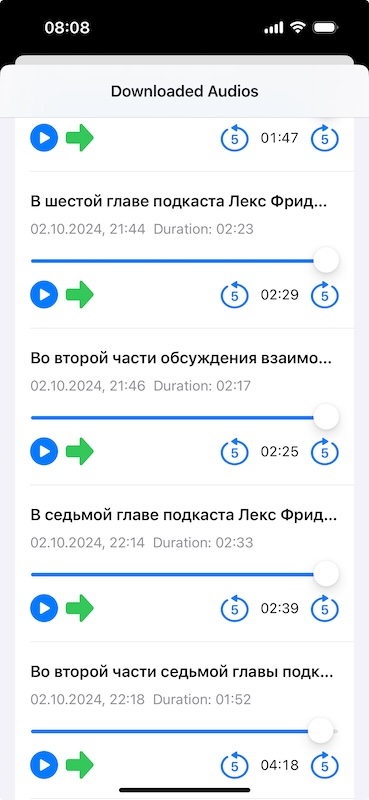
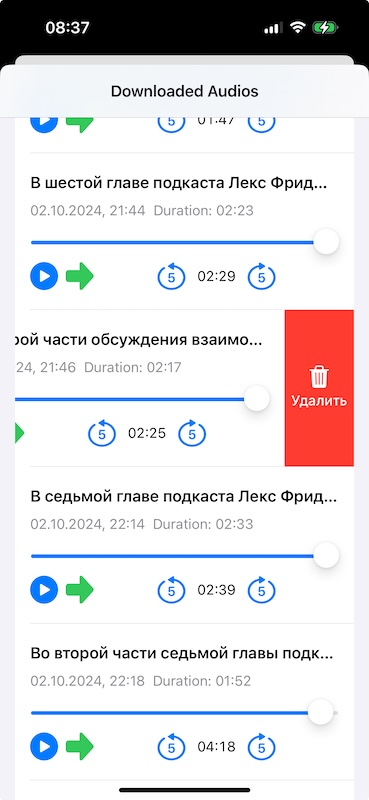
Removes .gitignore from build files and renames ControlButtons file
- Removed `.gitignore` file from the resources section in `AudioFetchGPT.xcodeproj/project.pbxproj`.
- Added an exception for `.cursorrules` file in the "AudioFetchGPT" target.
- Renamed `ControlButtons.swift` to `ControlButtons_AudioRowView.swift` for better code structure clarity.
- Added an additional `Spacer()` in `ControlButtons_AudioRowView.swift` to improve the layout of control buttons.

diff --git a/AudioFetchGPT/Views/DownloadListView/AudioRowView/ControlButtons_AudioRowView.swift b/AudioFetchGPT/Views/DownloadListView/AudioRowView/ControlButtons_AudioRowView.swift
@@ -20,6 +20,8 @@ extension AudioRowView {
                 Spacer()
                 
                 SeekButtonsView(audio: audio)
+                
+                Spacer()
             }
         }
     }
